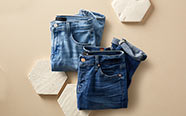
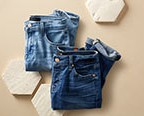
create cards

diff --git a/React with TypeScript/clock website/src/Entities/group/api/GroupApi.ts b/React with TypeScript/clock website/src/Entities/group/api/GroupApi.ts
@@ -10,14 +10,72 @@ export default class GroupApi {
                         name: 'Shope gaming',
                         description: 'Get your game on',
                         slug: 'game',
-                        imageUrl: 'public\img\Fuji_Gaming_SingleImageCard_C-1._SY304_CB762596570_.jpg'
+                        imageUrl: '/img/Fuji_Gaming_SingleImageCard_C-1._SY304_CB762596570_.jpg'
                     },
                     {
                         id: '2',
                         name: 'Jeans',
                         description: 'Shope Fashion for less',
                         slug: 'Jeans',
-                        imageUrl: 'public\img\DQC_APR_TBYB_W_BOTTOMS_1x._SY116_CB624172947_.jpg'
+                        imageUrl: '/img/DQC_APR_TBYB_W_BOTTOMS_1x._SY116_CB624172947_.jpg'
+                    },
+                    
+                    {
+                        id: '3',
+                        name: 'Watches',
+                        description: 'Watches',
+                        slug: 'Watches',
+                        imageUrl: '/img/Watches_1x._SY116_CB566164844_.jpg'
+                    },
+                    
+                    {
+                        id: '4',
+                        name: 'PS5',
+                        description: 'PS5',
+                        slug: 'PS5',
+                        imageUrl: '/img/CE24_SUM_GW_DQC_SW_GamingWeek_Sony_v2_1x._SY116_CB558844445_.jpg'
+                    },
+                    {
+                        id: '5',
+                        name: 'Nintendo',
+                        description: 'Nintendo',
+                        slug: 'Nintendo',
+                        imageUrl: '/img/CE24_SUM_GW_DQC_SE_GamingWeek_Nintendo_v2_1x._SY116_CB558844445_.jpg'
+                    },
+                    {
+                        id: '6',
+                        name: 'PC',
+                        description: 'PC',
+                        slug: 'PC',
+                        imageUrl: '/img/CE24_SUM_GW_DQC_NW_GamingWeek_PC_v2_1x._SY116_CB558844445_.jpg'
+                    },
+                    {
+                        id: '7',
+                        name: 'Xbox',
+                        description: 'Xbox',
+                        slug: 'Xbox',
+                        imageUrl: '/img/CE24_SUM_GW_DQC_NE_GamingWeek_Xbox_v2_1x._SY116_CB558844445_.jpg'
+                    },
+                    {
+                        id: '8',
+                        name: 'Books',
+                        description: 'Books',
+                        slug: 'Books',
+                        imageUrl: '/img/Fuji_Defect_Reduction_1x_Books._SY116_CB549022351_.jpg'
+                    },
+                    {
+                        id: '9',
+                        name: 'Hats',
+                        description: 'Hats',
+                        slug: 'Hats',
+                        imageUrl: '/img/Fuji_Quad_Hat_1x._SY116_CB667159060_.jpg'
+                    },
+                    {
+                        id: '10',
+                        name: 'Mugs',
+                        description: 'Mugs',
+                        slug: 'Jeans',
+                        imageUrl: '/img/Fuji_Quad_Mug_1x._SY116_CB667159063_.jpg'
                     },
                 ]),
                 500

diff --git a/React with TypeScript/clock website/src/Pages/home/home.tsx b/React with TypeScript/clock website/src/Pages/home/home.tsx
@@ -1,5 +1,8 @@
+import { useEffect, useState } from "react";
 import Counter from "../../Widgets/counter/Counter";
 import "./ui/home.css"
+import type IGroup from "../../Entities/group/model/IGroup";
+import GroupApi from "../../Entities/group/api/GroupApi";
 
 export default function Home() {
     const months = [
@@ -28,7 +31,6 @@ export default function Home() {
     ];
 
 
-
     const data: Date = new Date();
     const format = (n: number) => String(n).padStart(2, "0");
     const time = {
@@ -42,10 +44,31 @@ export default function Home() {
         sec: format(data.getSeconds())
     }
 
+    const [groups, setGroups] = useState<Array<IGroup>>([]);
+
+    useEffect(() => {
+        GroupApi.allGroups().then(setGroups);
+    }, []);
+
     return (
         <div className="home-wrapper">
-            <Counter />
-            <Counter />
+            <h1>Shope</h1>
+
+            <div className="cards row row-cols-1 row-cols-sm-2 row-cols-md-3 row-cols-lg-4 row-cols-md-3 row-cols-xxl-5 g-4">
+                {groups.map(g => <div className="col">
+                    <div className="card h-100">
+                        <img src={g.imageUrl} className="card-img-top" alt={g.name}/>
+                            <div className="card-body">
+                                <h5 className="card-title">{g.name}</h5>
+                                <p className="card-text">{g.description}</p>
+                            </div>
+                    </div>
+                </div>)}
+
+            </div>
+
+
+            {/* <Counter /> */}
 
 
 

diff --git a/React with TypeScript/clock website/src/Pages/home/ui/home.css b/React with TypeScript/clock website/src/Pages/home/ui/home.css
@@ -7,6 +7,12 @@ body {
     align-items: center;
     justify-content: center;
     flex-direction: column;
+    width: 100%;
+}
+
+.cards{
+    max-width: 95%;
+    margin-bottom: 20px;
 }
 
 .clock{

diff --git a/React with TypeScript/clock website/src/Pages/_layout/ui/Layout.css b/React with TypeScript/clock website/src/Pages/_layout/ui/Layout.css
@@ -1,3 +1,8 @@
+body{
+    margin: 0px;
+    padding: 0px;
+}
+
 #root {
     width: 100%;
     height: 100vh;